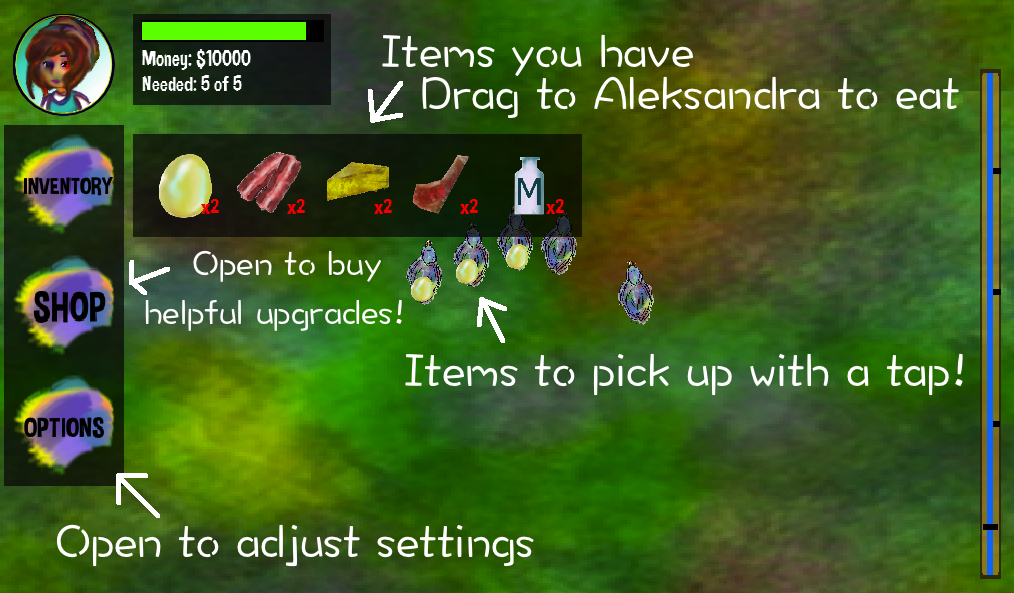
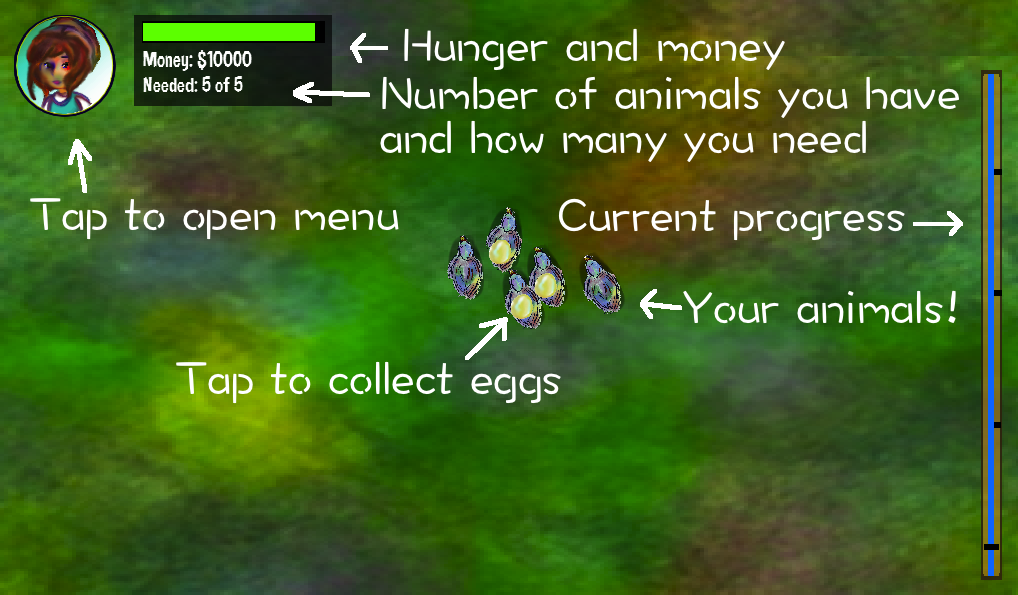
Updated help and tutorial screens

diff --git a/core/src/com/tgco/animalBook/screens/HelpScreen.java b/core/src/com/tgco/animalBook/screens/HelpScreen.java
@@ -48,7 +48,7 @@ public class HelpScreen extends ButtonScreenAdapter implements Screen {
 		helpScreens = new Array<String>();
 		helpScreens.add("backgrounds/helpScreen0.png");
 		helpScreens.add("backgrounds/helpScreen1.png");
-		//helpScreens.add("backgrounds/helpScreen2.png");
+		helpScreens.add("backgrounds/helpScreen2.png");
 		//helpScreens.add("backgrounds/helpScreen3.png");
 
 		currentScreen = 0;
@@ -70,7 +70,7 @@ public class HelpScreen extends ButtonScreenAdapter implements Screen {
 		helpScreens = new Array<String>();
 		helpScreens.add("backgrounds/helpScreen0.png");
 		helpScreens.add("backgrounds/helpScreen1.png");
-		//helpScreens.add("backgrounds/helpScreen2.png");
+		helpScreens.add("backgrounds/helpScreen2.png");
 		//helpScreens.add("backgrounds/helpScreen3.png");
 
 		currentScreen = 0;
@@ -154,7 +154,7 @@ public class HelpScreen extends ButtonScreenAdapter implements Screen {
 		nextButton.setWidth(BUTTON_WIDTH);
 		nextButton.setHeight(BUTTON_HEIGHT);
 		nextButton.setX(Gdx.graphics.getWidth() - BUTTON_WIDTH - 2*EDGE_TOLERANCE);
-		nextButton.setY(5*EDGE_TOLERANCE);
+		nextButton.setY(EDGE_TOLERANCE);
 
 		//LISTENERS
 		backButton.addListener(new InputListener() {
